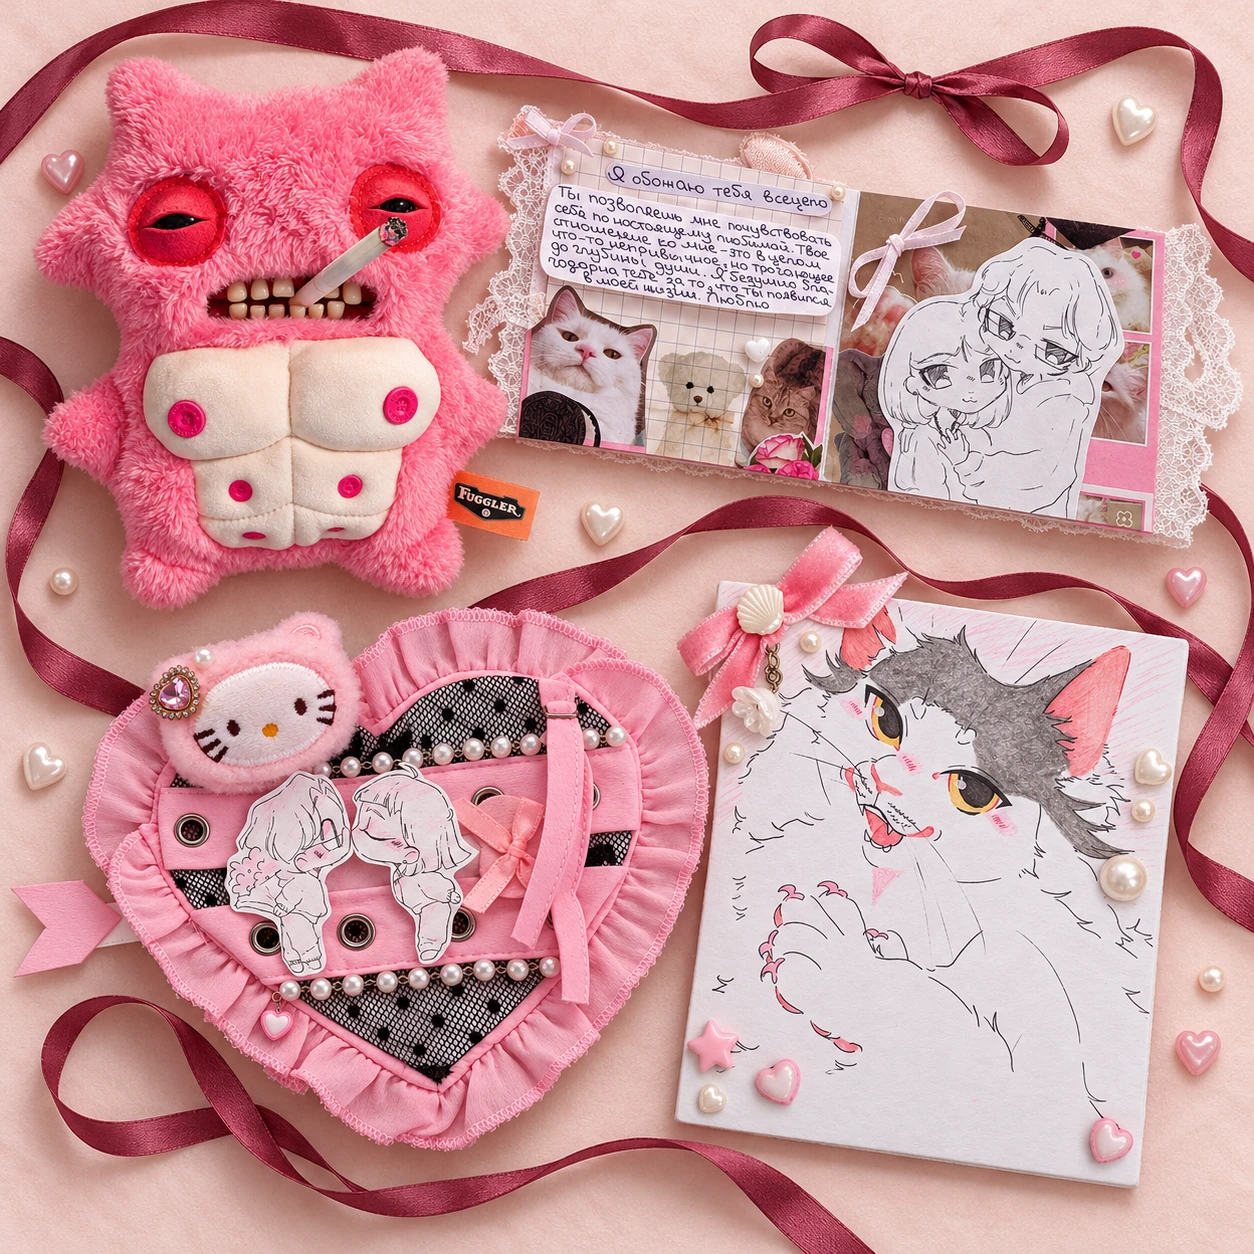
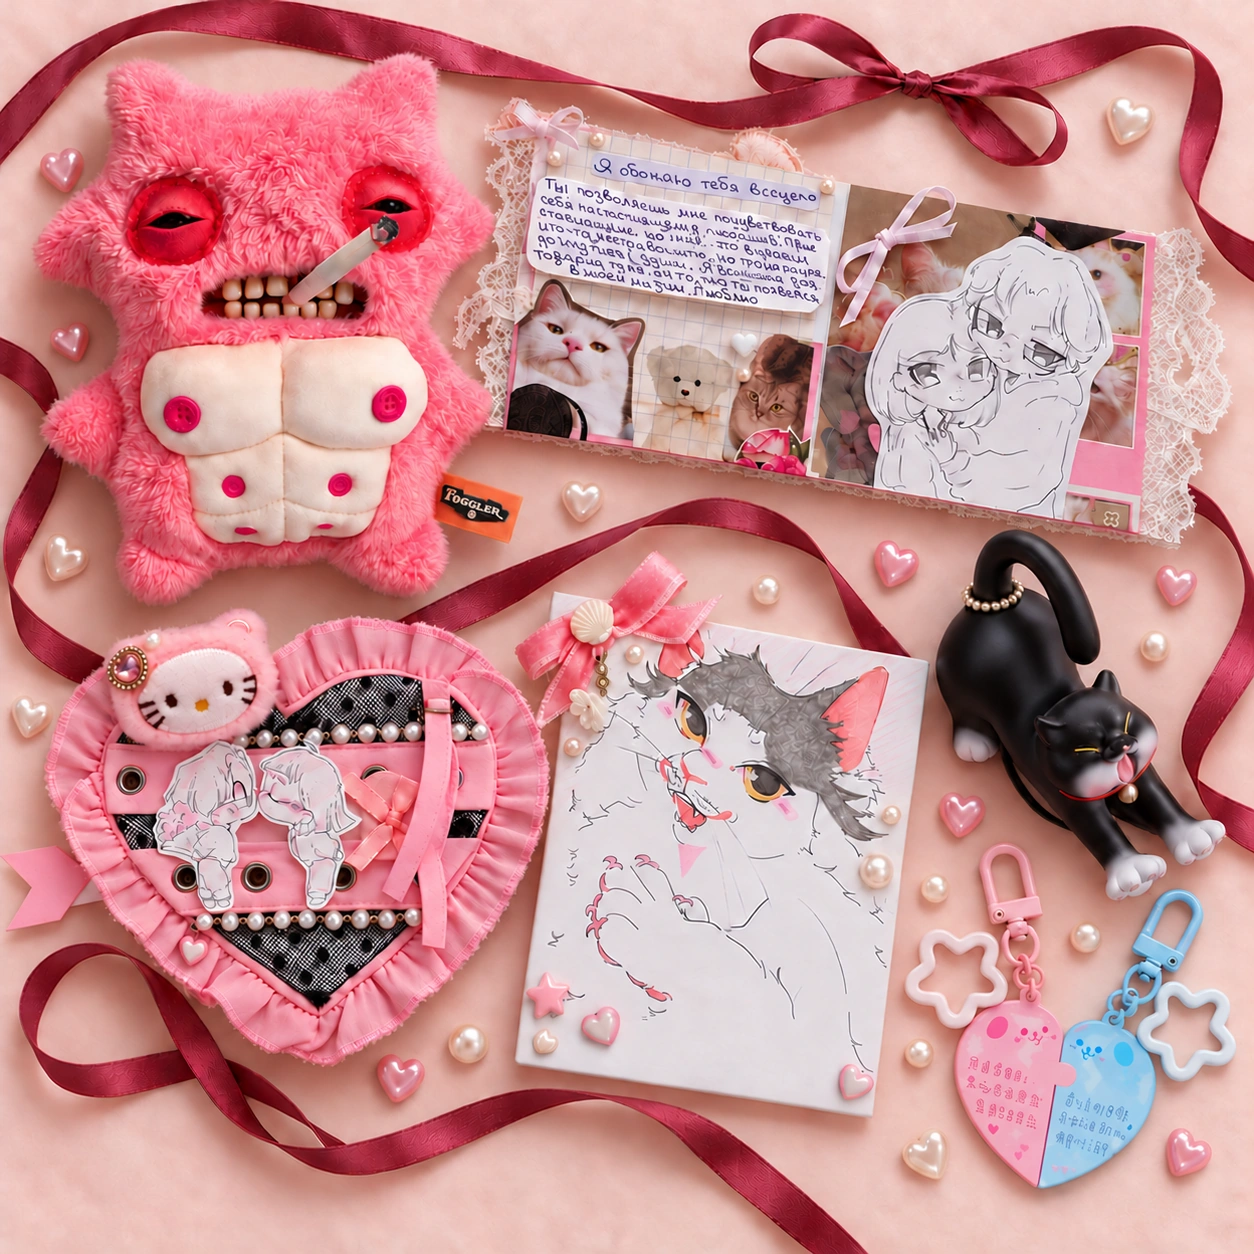
fix: обновить коллаж подарков

diff --git a/content.js b/content.js
@@ -80,8 +80,8 @@ const LoveContent = {
     "transparent": false,
     "media": [
       {
-        "src": "assets/memories/gifts-together.webp",
-        "alt": "Четыре наших подарка в одной композиции"
+        "src": "assets/memories/gifts-together.webp?v=2",
+        "alt": "Наши подарки в одной композиции"
       }
     ]
   }

diff --git a/index.html b/index.html
@@ -47,7 +47,7 @@
 </dialog>
 <script src="scene-math.js?v=1.0.14"></script>
 <script src="galaxy-renderer.js?v=1.0.14"></script>
-<script src="content.js?v=1.0.14"></script>
+<script src="content.js?v=1.0.15"></script>
 <script src="memory-media.js?v=1.0.14"></script>
 <script src="glyph-renderer.js?v=1.0.14"></script>
 <script src="app.js?v=1.0.14"></script>
